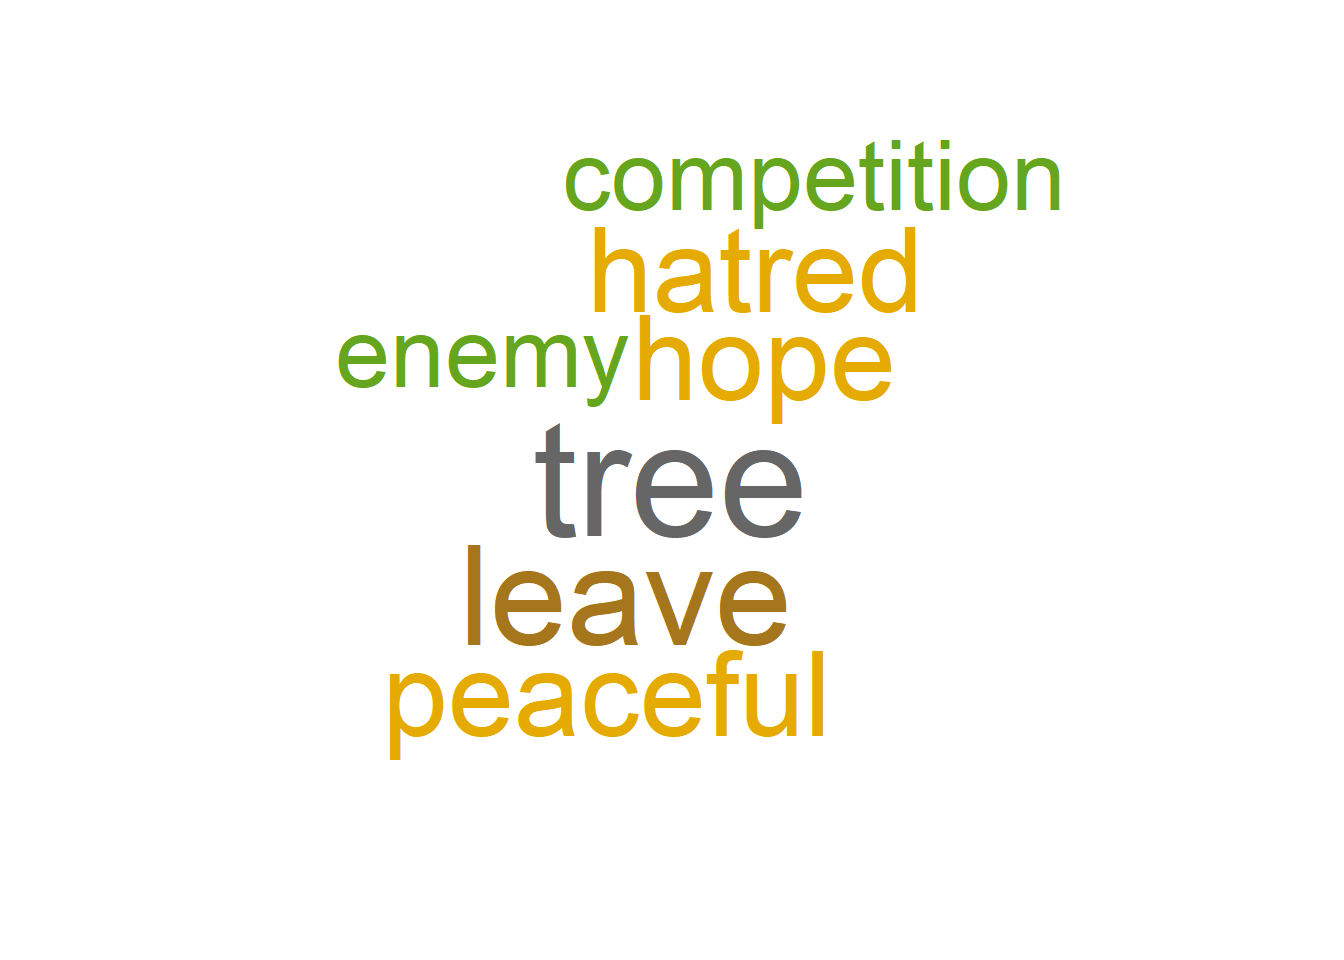
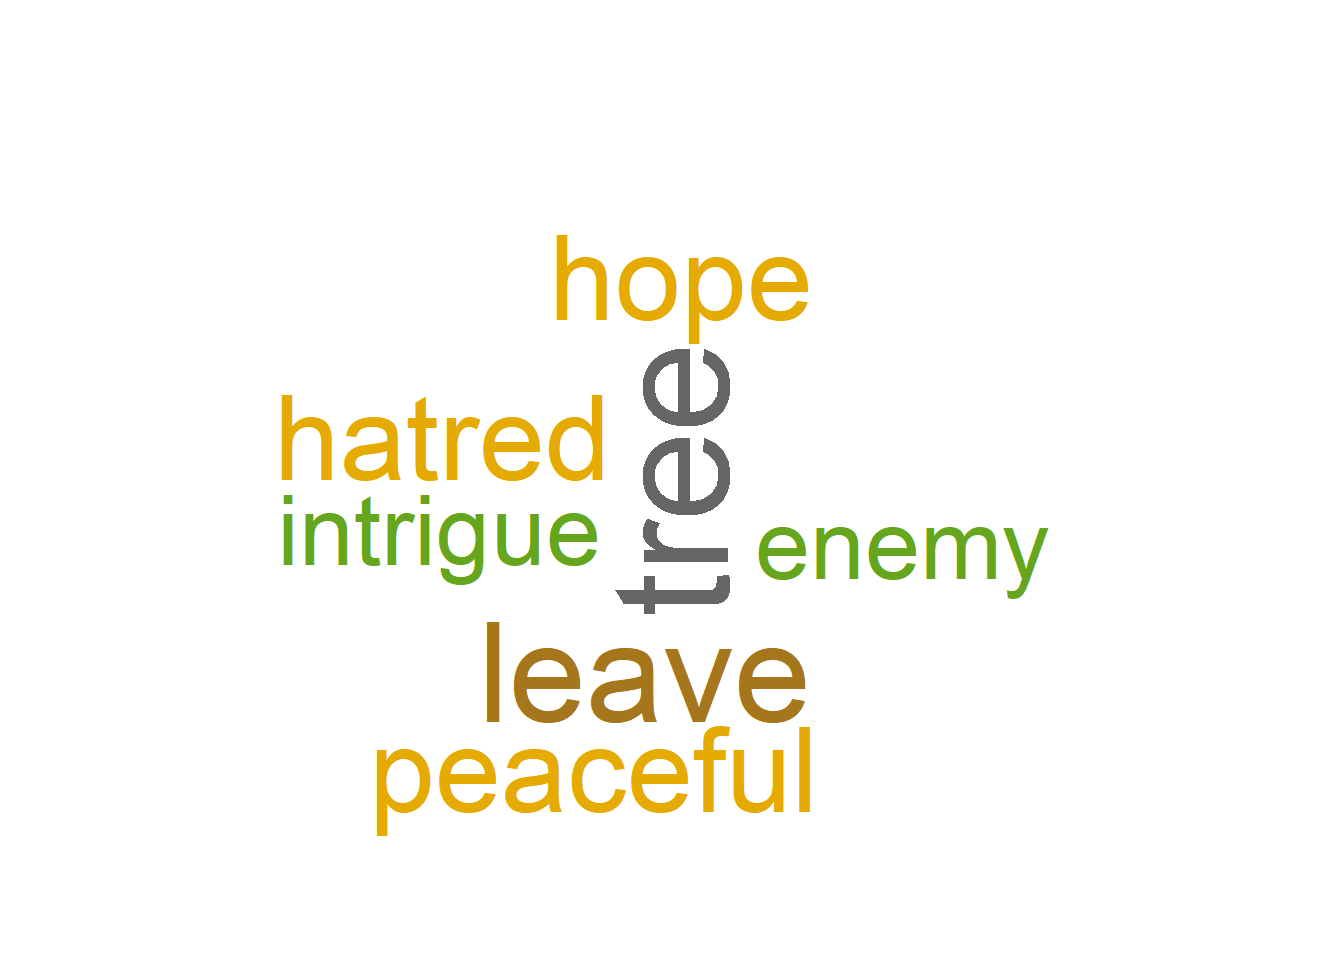
selesnya1

Changed region(s): [[0.1875, 0.125, 0.8125, 0.875]]

diff --git a/content/post/2019-05-25-entendendo-os-sentimentos-no-magic-guilda-selesnya.html b/content/post/2019-05-25-entendendo-os-sentimentos-no-magic-guilda-selesnya.html
@@ -133,14 +133,8 @@ thm &lt;- hc_theme(
 #            gridLineColor = &quot;#111111&quot;) %&gt;% 
 #   hc_xAxis(labels = list(style = list(color = &quot;black&quot;))) %&gt;% 
 #   hc_colors(&quot;green&quot;) %&gt;% 
-#   hc_add_theme(thm)
-
-ggplot(data = selesnya_flavor, aes(x = sentiment)) +
-  geom_bar(fill = &quot;green&quot;) +
-  theme_bw() +
-  labs(y = &quot;&quot;) +
-  scale_y_continuous(breaks = seq(1,12, 1))</code></pre>
-<p><img src="/post/2019-05-25-entendendo-os-sentimentos-no-magic-guilda-selesnya_files/figure-html/unnamed-chunk-6-1.png" width="672" /></p>
+#   hc_add_theme(thm)</code></pre>
+<p><img src="C:/Users/tarss/Desktop/tarssioesa.github.io/static/img/2019-05-25-entendendo-os-sentimentos-no-magic-guilda-selesnya_files/selesnya_flavor.jpeg" /></p>
 <p>Pausa, para minha primeira vez no hchart, já me sinto encantado. Queria saber como ajustar muitas coisas, mas a frente vou aprendendo. É importante, às vezes, sabe se contentar com o que é capaz de fazer no momento.</p>
 <p>Mas, indo a análise, o bloco de <code>Guilds of Ravnica</code> é um momento pré-guerra, a guilda Selesnya teve a <code>Vitu-Ghazi</code>, a árvore do mundo, danificada e vive um momento cujo grande objetivo é aumentar suas fileiras de guerra e se proteger.</p>
 <p>Visto que falamos de uma guilda que vive uma união regiliosa e que se encontra em um contexto de pré-confronto, é bem condizente que palavras ligadas a <code>ansiedade</code> e <code>fé</code> estejam bastante citada no momento do bloco. Infelizmente, eu não sou um grande conhecer das histórias, mas vou começar a tentar trazer pessoas que sabem mais.</p>
@@ -191,14 +185,8 @@ wordcloud(sel_txt,
 #            gridLineColor = &quot;#111111&quot;) %&gt;% 
 #   hc_xAxis(labels = list(style = list(color = &quot;black&quot;))) %&gt;% 
 #   hc_colors(&quot;green&quot;) %&gt;% 
-#   hc_add_theme(thm)
-
-ggplot(data = sel_cloud, aes(x = sentiment)) +
-  geom_bar(fill = &quot;green&quot;) +
-  theme_bw() +
-  labs(y = &quot;&quot;) +
-  scale_y_continuous(breaks = seq(1,12, 1))</code></pre>
-<p><img src="/post/2019-05-25-entendendo-os-sentimentos-no-magic-guilda-selesnya_files/figure-html/unnamed-chunk-9-1.png" width="672" /></p>
+#   hc_add_theme(thm)</code></pre>
+<p><img src="C:/Users/tarss/Desktop/tarssioesa.github.io/static/img/2019-05-25-entendendo-os-sentimentos-no-magic-guilda-selesnya_files/selesnya_text.jpeg" /></p>
 <p>Outra questão interessante é o que as palavras <code>white</code> e <code>green</code> se relacionam:</p>
 <pre class="r"><code>sel_filter &lt;- sel_cloud %&gt;% 
   filter(word %in% c(&quot;white&quot;, &quot;green&quot;)) %&gt;% 

diff --git a/public/2019/05/entendendo-os-sentimentos-no-magic-guilda-selesnya/index.html b/public/2019/05/entendendo-os-sentimentos-no-magic-guilda-selesnya/index.html
@@ -327,14 +327,8 @@ thm &lt;- hc_theme(
 #            gridLineColor = &quot;#111111&quot;) %&gt;% 
 #   hc_xAxis(labels = list(style = list(color = &quot;black&quot;))) %&gt;% 
 #   hc_colors(&quot;green&quot;) %&gt;% 
-#   hc_add_theme(thm)
-
-ggplot(data = selesnya_flavor, aes(x = sentiment)) +
-  geom_bar(fill = &quot;green&quot;) +
-  theme_bw() +
-  labs(y = &quot;&quot;) +
-  scale_y_continuous(breaks = seq(1,12, 1))</code></pre>
-<p><img src="/post/2019-05-25-entendendo-os-sentimentos-no-magic-guilda-selesnya_files/figure-html/unnamed-chunk-6-1.png" width="672" /></p>
+#   hc_add_theme(thm)</code></pre>
+<p><img src="C:/Users/tarss/Desktop/tarssioesa.github.io/static/img/2019-05-25-entendendo-os-sentimentos-no-magic-guilda-selesnya_files/selesnya_flavor.jpeg" /></p>
 <p>Pausa, para minha primeira vez no hchart, já me sinto encantado. Queria saber como ajustar muitas coisas, mas a frente vou aprendendo. É importante, às vezes, sabe se contentar com o que é capaz de fazer no momento.</p>
 <p>Mas, indo a análise, o bloco de <code>Guilds of Ravnica</code> é um momento pré-guerra, a guilda Selesnya teve a <code>Vitu-Ghazi</code>, a árvore do mundo, danificada e vive um momento cujo grande objetivo é aumentar suas fileiras de guerra e se proteger.</p>
 <p>Visto que falamos de uma guilda que vive uma união regiliosa e que se encontra em um contexto de pré-confronto, é bem condizente que palavras ligadas a <code>ansiedade</code> e <code>fé</code> estejam bastante citada no momento do bloco. Infelizmente, eu não sou um grande conhecer das histórias, mas vou começar a tentar trazer pessoas que sabem mais.</p>
@@ -385,14 +379,8 @@ wordcloud(sel_txt,
 #            gridLineColor = &quot;#111111&quot;) %&gt;% 
 #   hc_xAxis(labels = list(style = list(color = &quot;black&quot;))) %&gt;% 
 #   hc_colors(&quot;green&quot;) %&gt;% 
-#   hc_add_theme(thm)
-
-ggplot(data = sel_cloud, aes(x = sentiment)) +
-  geom_bar(fill = &quot;green&quot;) +
-  theme_bw() +
-  labs(y = &quot;&quot;) +
-  scale_y_continuous(breaks = seq(1,12, 1))</code></pre>
-<p><img src="/post/2019-05-25-entendendo-os-sentimentos-no-magic-guilda-selesnya_files/figure-html/unnamed-chunk-9-1.png" width="672" /></p>
+#   hc_add_theme(thm)</code></pre>
+<p><img src="C:/Users/tarss/Desktop/tarssioesa.github.io/static/img/2019-05-25-entendendo-os-sentimentos-no-magic-guilda-selesnya_files/selesnya_text.jpeg" /></p>
 <p>Outra questão interessante é o que as palavras <code>white</code> e <code>green</code> se relacionam:</p>
 <pre class="r"><code>sel_filter &lt;- sel_cloud %&gt;% 
   filter(word %in% c(&quot;white&quot;, &quot;green&quot;)) %&gt;% 
